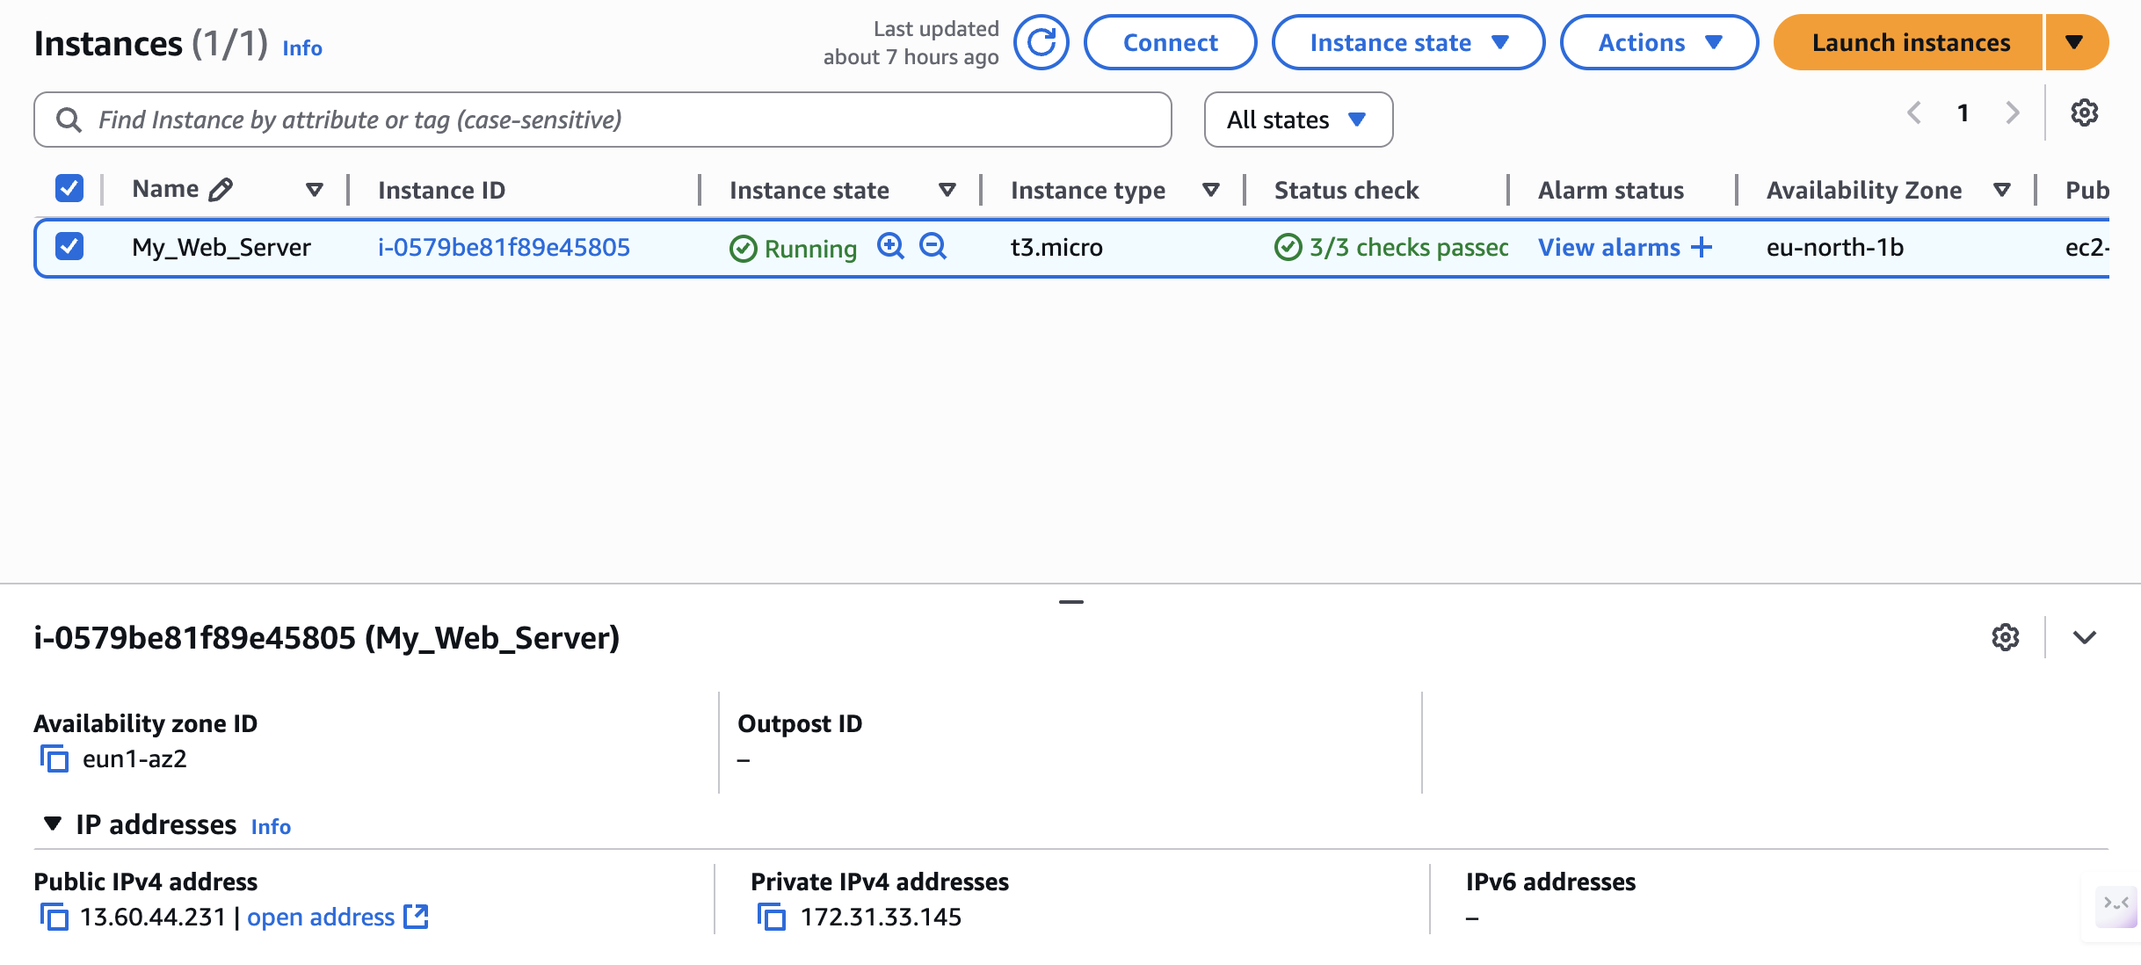
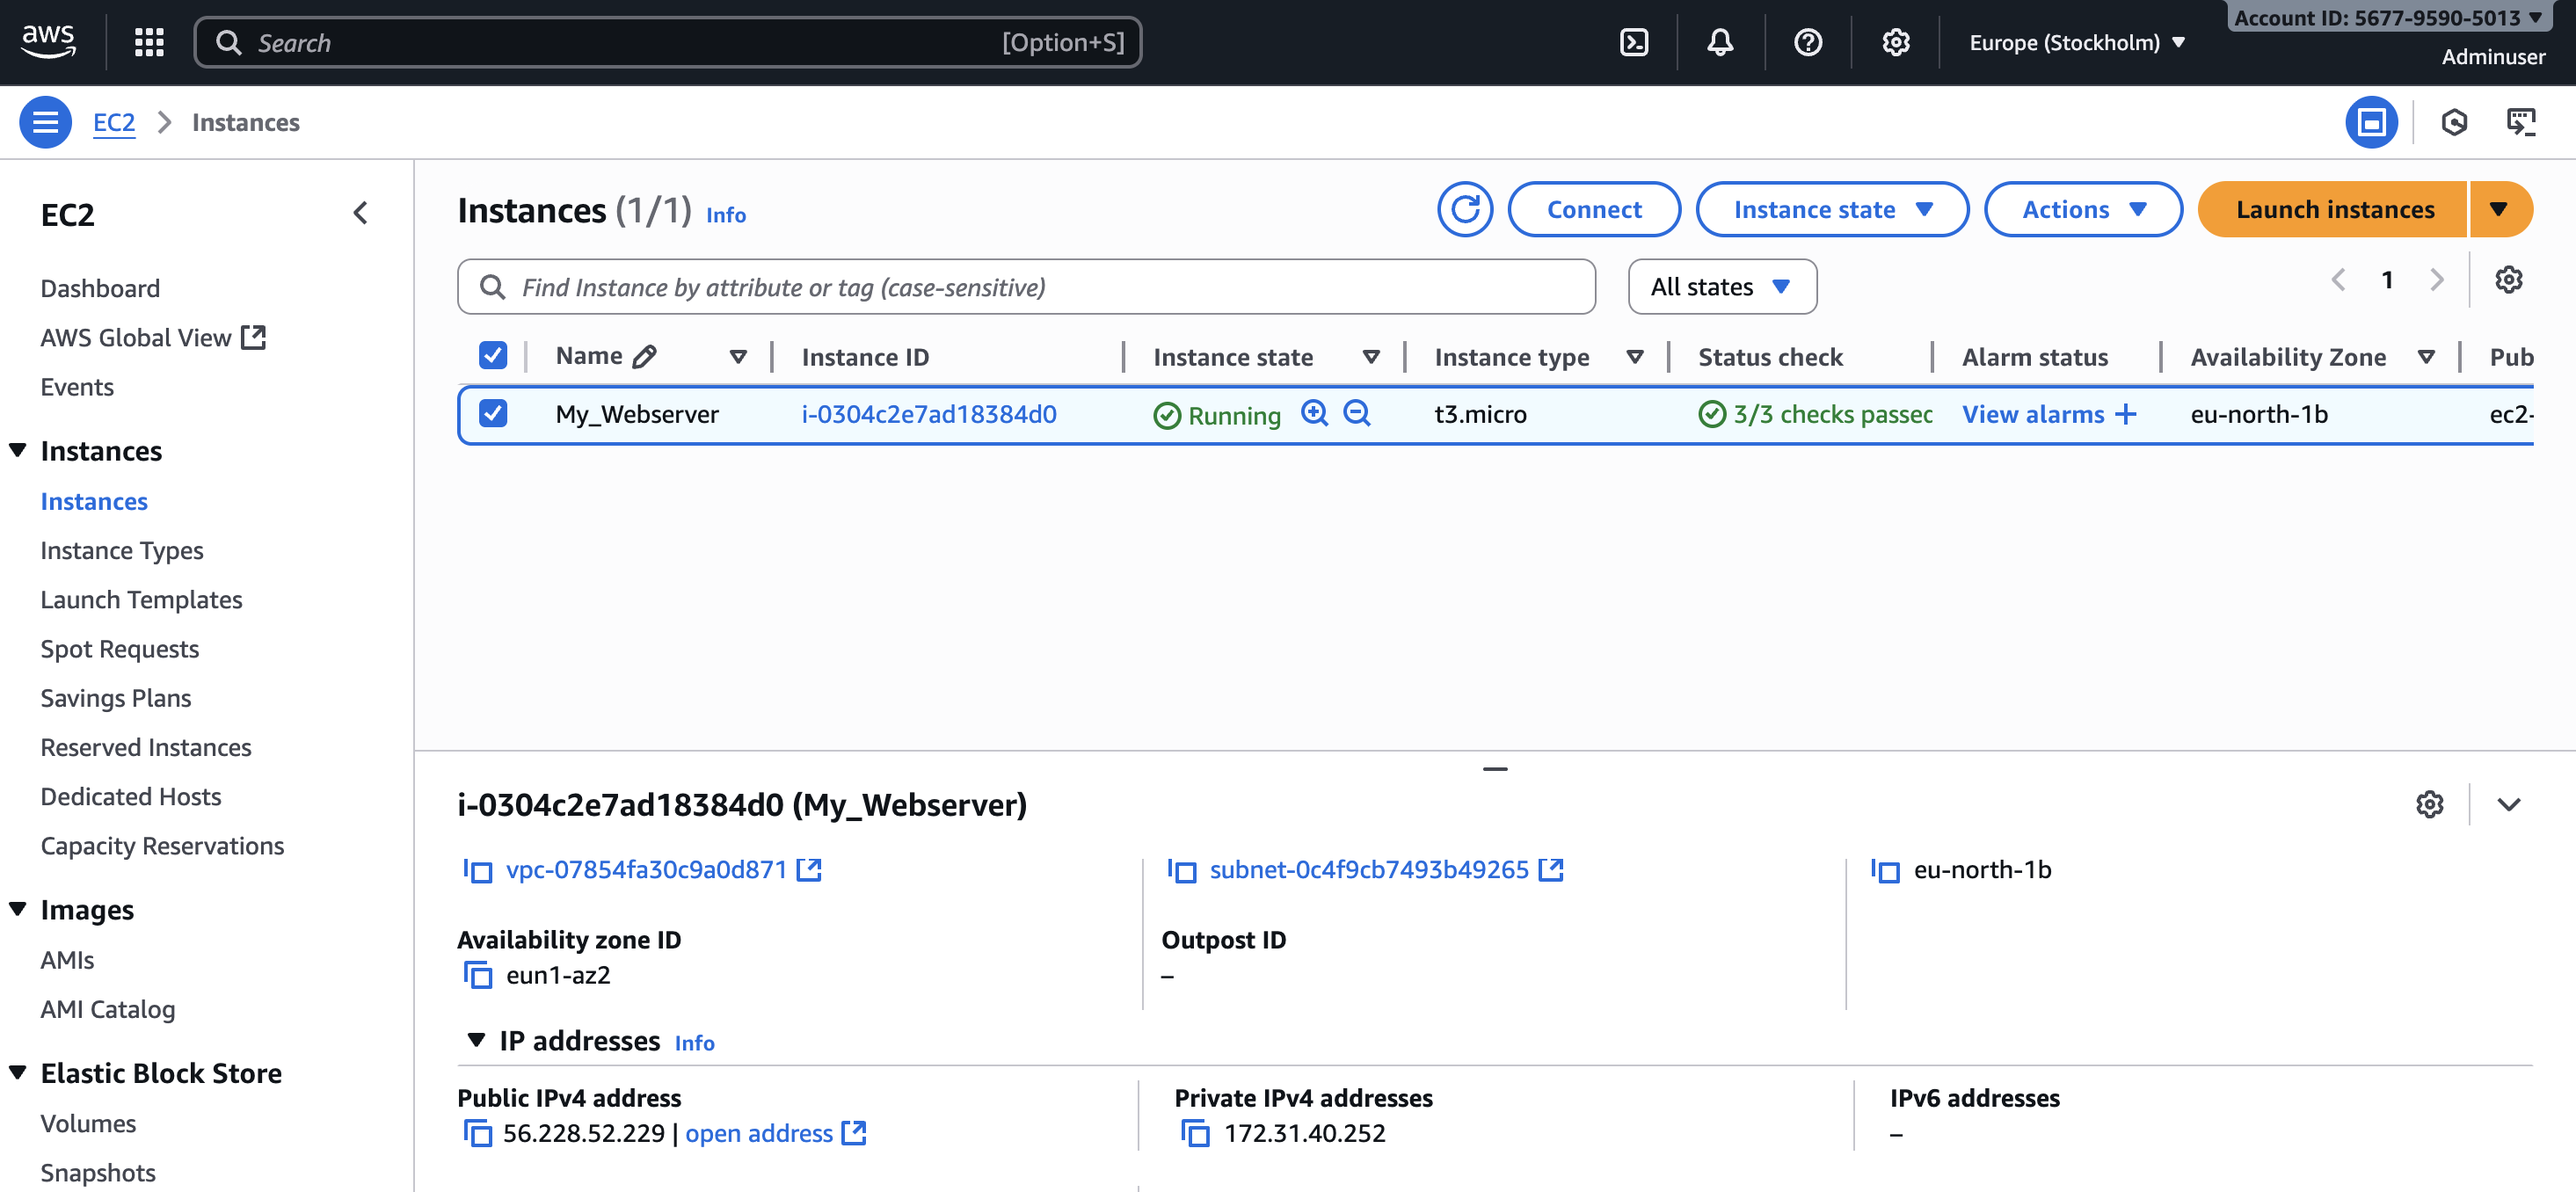
Updated README with static IP and refreshed screenshots

diff --git a/README.md b/README.md
@@ -19,7 +19,7 @@
 - Launch the instance 
 ### 2.Connect via SSH
 ```bash 
-ssh -i ~/downloads/MY_Key.pem ubuntu@13.60.44.231 
+ssh -i ~/downloads/MY_Key.pem ubuntu@56.228.52.229
  ```
 ### 3. Update, Install & Start Nginx
 Run the following commands to install,start and enable Nginx:
